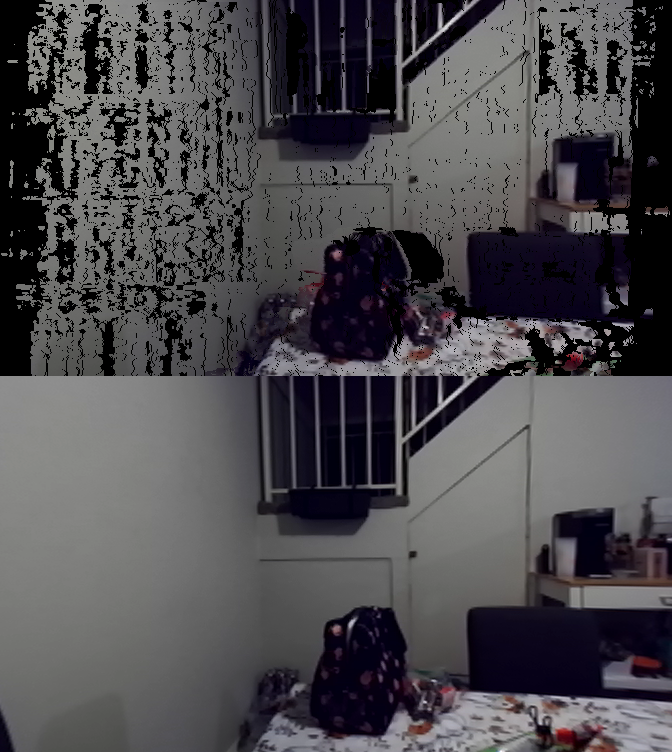
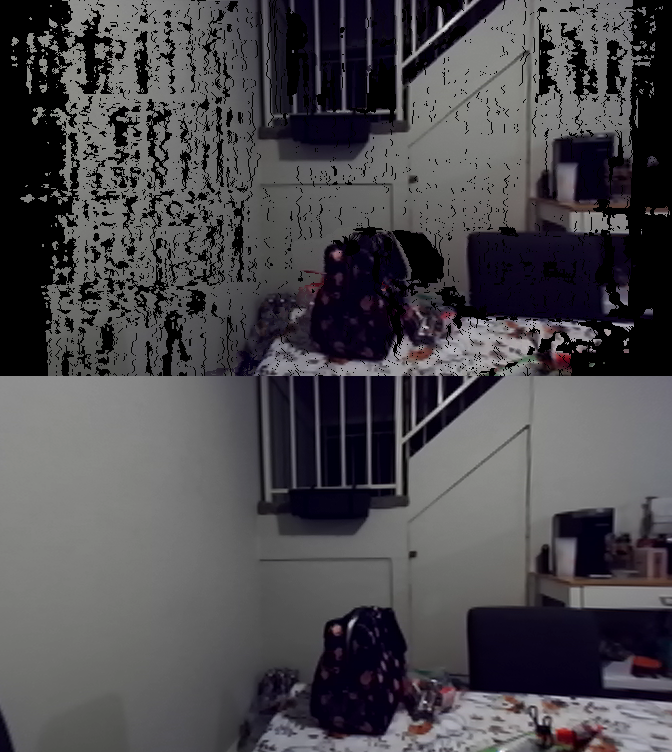
lint

Changed region(s): [[0.0, 0.0, 0.4062, 0.5199], [0.7188, 0.4282, 0.9375, 0.5199], [0.25, 0.0918, 0.2812, 0.1223]]

diff --git a/optimization.py b/optimization.py
@@ -19,102 +19,92 @@ from utils import (
     save_results,
 )
 
-def bm_params(trial,n_channels):
-        params = dict()
-        # image preprocessing
-        ############################
-        params["prefilter_size"] = trial.suggest_int(
-            "prefilter_size", 5, 11, step=2
-        )  # must be odd
-        params["prefilter_cap"] = trial.suggest_int("prefilter_cap", 1, 32)
-        params["prefilter_type"] = trial.suggest_categorical(
-            "prefilter_type",
-            [
-                cv2.STEREO_BM_PREFILTER_NORMALIZED_RESPONSE,
-                cv2.STEREO_BM_PREFILTER_XSOBEL,
-            ],
-        )
-        ############################
 
-        # actual stereo matching
-        ############################
-        params["algo"] = trial.suggest_categorical("algo", ["StereoBM"])
-        params["correlation_window_size"] = trial.suggest_int(
-            "correlation_window_size", 5, 25, step=2
-        )
-        params["min_disparity"] = trial.suggest_int("min_disparity", -32, 64, step=16)
-        params["disparity_range"] = trial.suggest_int(
-            "disparity_range", 16, 256, step=16
-        )
-        ############################
+def bm_params(trial, n_channels):
+    params = dict()
+    # image preprocessing
+    ############################
+    params["prefilter_size"] = trial.suggest_int(
+        "prefilter_size", 5, 11, step=2
+    )  # must be odd
+    params["prefilter_cap"] = trial.suggest_int("prefilter_cap", 1, 32)
+    params["prefilter_type"] = trial.suggest_categorical(
+        "prefilter_type",
+        [
+            cv2.STEREO_BM_PREFILTER_NORMALIZED_RESPONSE,
+            cv2.STEREO_BM_PREFILTER_XSOBEL,
+        ],
+    )
+    ############################
 
-        # disparity post processing
-        ############################
-        params["P1"] = trial.suggest_int("P1", 0, 0)
-        params["P2"] = trial.suggest_int("P2", 0, 0)
+    # actual stereo matching
+    ############################
+    params["algo"] = trial.suggest_categorical("algo", ["StereoBM"])
+    params["correlation_window_size"] = trial.suggest_int(
+        "correlation_window_size", 5, 25, step=2
+    )
+    params["min_disparity"] = trial.suggest_int("min_disparity", -32, 64, step=16)
+    params["disparity_range"] = trial.suggest_int("disparity_range", 16, 256, step=16)
+    ############################
 
-        params["texture_threshold"] = trial.suggest_int("texture_threshold", 0, 100)
-        params["disp12MaxDiff"] = trial.suggest_int(
-            "disp12MaxDiff", -1, 128
-        )  # -1 == disabled
-        params["uniqueness_ratio"] = trial.suggest_int("uniqueness_ratio", 0, 30)
-        params["speckle_window_size"] = trial.suggest_int("speckle_window_size", 3, 25)
-        params["speckle_range"] = trial.suggest_int("speckle_range", 0, 30)
-        ############################
-        return params
+    # disparity post processing
+    ############################
+    # disabled for bm
+    params["P1"] = trial.suggest_int("P1", 0, 0)
+    # disabled for bm
+    params["P2"] = trial.suggest_int("P2", 0, 0)
+    # disabled for bm
+    params["disp12MaxDiff"] = trial.suggest_int("disp12MaxDiff", 0, 0)
+
+    params["texture_threshold"] = trial.suggest_int("texture_threshold", 0, 100)
+    params["uniqueness_ratio"] = trial.suggest_int("uniqueness_ratio", 0, 30)
+    params["speckle_window_size"] = trial.suggest_int("speckle_window_size", 3, 25)
+    params["speckle_range"] = trial.suggest_int("speckle_range", 0, 30)
+    ############################
+    return params
 
 
-def sgbm_params(trial,n_channels):
-        params = dict()
-        # image preprocessing
-        ############################
-        params["prefilter_size"] = trial.suggest_int("prefilter_size", 1, 1) #trial.suggest_int(
-        #     "prefilter_size", 5, 11, step=2
-        # )  # must be odd
-        params["prefilter_cap"] = trial.suggest_int("prefilter_cap", 1, 32)
-        params["prefilter_type"] = trial.suggest_int("prefilter_type", 1, 1) #trial.suggest_categorical(
-        #     "prefilter_type",
-        #     [
-        #         cv2.STEREO_BM_PREFILTER_NORMALIZED_RESPONSE,
-        #         cv2.STEREO_BM_PREFILTER_XSOBEL,
-        #     ],
-        # )
-        ############################
+def sgbm_params(trial, n_channels):
+    params = dict()
+    # image preprocessing
+    ############################
+    params["prefilter_cap"] = trial.suggest_int("prefilter_cap", 1, 32)
+    # disabled for sgbm
+    params["prefilter_size"] = trial.suggest_int("prefilter_size", 1, 1)
+    # disabled for sgbm
+    params["prefilter_type"] = trial.suggest_int("prefilter_type", 1, 1)
+    ############################
 
-        # actual stereo matching
-        ############################
-        params["algo"] = trial.suggest_categorical("algo", ["StereoSGBM"])
-        # params["algo"] = trial.suggest_categorical("algo", ["StereoBM", "StereoSGBM"])
-        params["correlation_window_size"] = trial.suggest_int(
-            "correlation_window_size", 5, 25, step=2
-        )
-        params["min_disparity"] = trial.suggest_int("min_disparity", -32, 64, step=16)
-        params["disparity_range"] = trial.suggest_int(
-            "disparity_range", 16, 256, step=16
-        )
-        ############################
+    # actual stereo matching
+    ############################
+    params["algo"] = trial.suggest_categorical("algo", ["StereoSGBM"])
 
-        # disparity post processing
-        ############################
+    params["correlation_window_size"] = trial.suggest_int(
+        "correlation_window_size", 5, 25, step=2
+    )
+    params["min_disparity"] = trial.suggest_int("min_disparity", -32, 64, step=16)
+    params["disparity_range"] = trial.suggest_int("disparity_range", 16, 256, step=16)
+    ############################
 
-        params["texture_threshold"] = trial.suggest_int("texture_threshold", 0,0)# trial.suggest_int("texture_threshold", 0, 100)
-        # P1 and P2 have a large range, so we opt to reduce the search space significantly with a good initial guess
-        P1_guess = min(
-            4000, int(8 * n_channels * params["correlation_window_size"] ** 2)
-        )
-        P2_guess = min(
-            4000, int(32 * n_channels * params["correlation_window_size"] ** 2)
-        )
-        params["P1"] = trial.suggest_int("P1", max(0, P1_guess - 10), P1_guess + 10)
-        params["P2"] = trial.suggest_int("P2", max(0, P2_guess - 10), P2_guess + 10)
-        params["disp12MaxDiff"] = trial.suggest_int(
-            "disp12MaxDiff", -1, 128
-        )  # -1 == disabled
-        params["uniqueness_ratio"] = trial.suggest_int("uniqueness_ratio", 0, 30)
-        params["speckle_window_size"] = trial.suggest_int("speckle_window_size", 3, 25)
-        params["speckle_range"] = trial.suggest_int("speckle_range", 0, 30)
-        ############################
-        return params
+    # disparity post processing
+    ############################
+
+    P1_guess = min(4000, int(8 * n_channels * params["correlation_window_size"] ** 2))
+    P2_guess = min(4000, int(32 * n_channels * params["correlation_window_size"] ** 2))
+    params["P1"] = trial.suggest_int("P1", max(0, P1_guess - 10), P1_guess + 10)
+    params["P2"] = trial.suggest_int("P2", max(0, P2_guess - 10), P2_guess + 10)
+    params["disp12MaxDiff"] = trial.suggest_int(
+        "disp12MaxDiff", -1, 128
+    )  # -1 == disabled
+    params["uniqueness_ratio"] = trial.suggest_int("uniqueness_ratio", 0, 30)
+    params["speckle_window_size"] = trial.suggest_int("speckle_window_size", 3, 25)
+    params["speckle_range"] = trial.suggest_int("speckle_range", 0, 30)
+
+    # disabled for sgbm
+    params["texture_threshold"] = trial.suggest_int("texture_threshold", 0, 0)
+    ############################
+    return params
+
 
 def objective(trial, method, image_data, stereo_algorithm="StereoSGBM"):
     if len(image_data[0][0].shape) == 3:
@@ -125,7 +115,6 @@ def objective(trial, method, image_data, stereo_algorithm="StereoSGBM"):
     if isinstance(trial, dict):
         params = trial
     else:
-        # TODO: Config file to modify search space dimensions
         if stereo_algorithm == "StereoSGBM":
             params = sgbm_params(trial, n_channels)
         elif stereo_algorithm == "StereoBM":
@@ -168,7 +157,8 @@ def objective(trial, method, image_data, stereo_algorithm="StereoSGBM"):
         )
 
         # if method == "no_ref"
-        for pyr_lvl in range(2): # another idea taken from monodepth
+        pyramid_levels = 3
+        for pyr_lvl in range(pyramid_levels):  # another idea taken from monodepth
             if pyr_lvl != 0:
                 right_image = cv2.pyrDown(
                     right_image,
@@ -260,7 +250,7 @@ def objective(trial, method, image_data, stereo_algorithm="StereoSGBM"):
             # normalize left ssim to be (0, 1) and flip
             inv_left_similarity = (
                 1.0 - (ssim(lt, normalized_left_disparity, data_range=255) + 1.0) / 2.0
-            )  
+            )
             inv_right_similarity = (
                 1.0 - (ssim(rg, normalized_right_disparity, data_range=255) + 1.0) / 2.0
             )
@@ -290,7 +280,9 @@ def objective(trial, method, image_data, stereo_algorithm="StereoSGBM"):
                 + 0.2 * inv_right_similarity
             )
 
-            error += left_error + right_error
+            # weight by pyramid level
+            pyramid_level_weight = 1.0 - pyr_lvl / pyramid_levels
+            error += pyramid_level_weight * (left_error + right_error)
 
     return error
 
